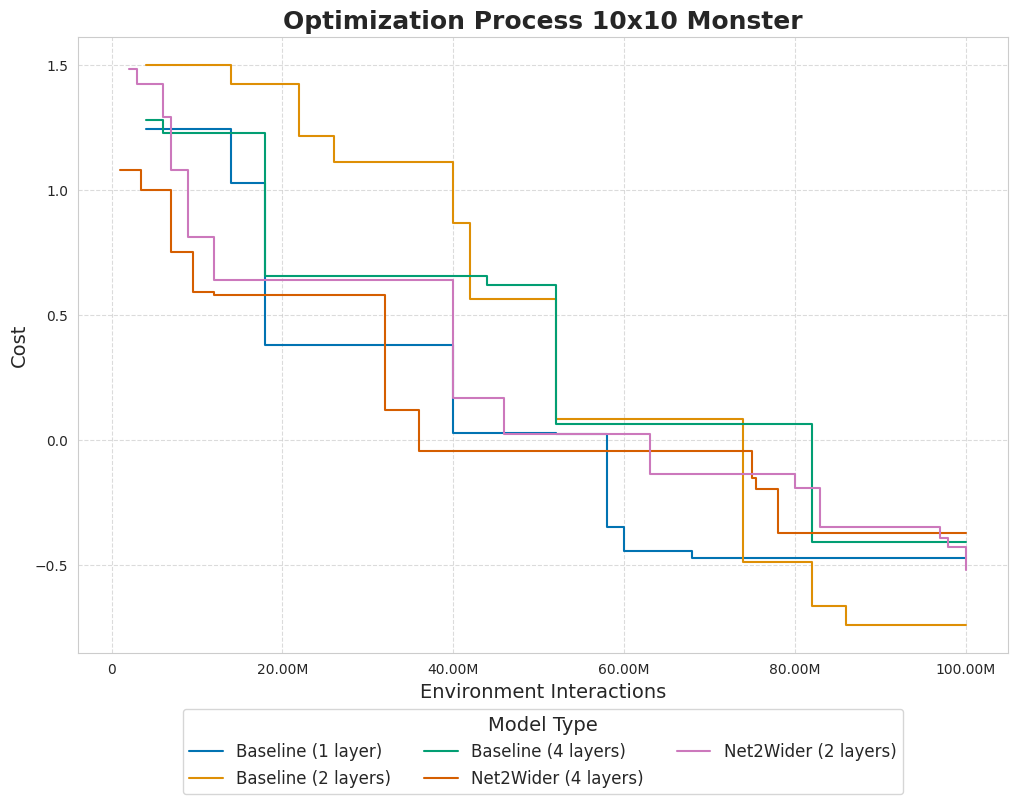
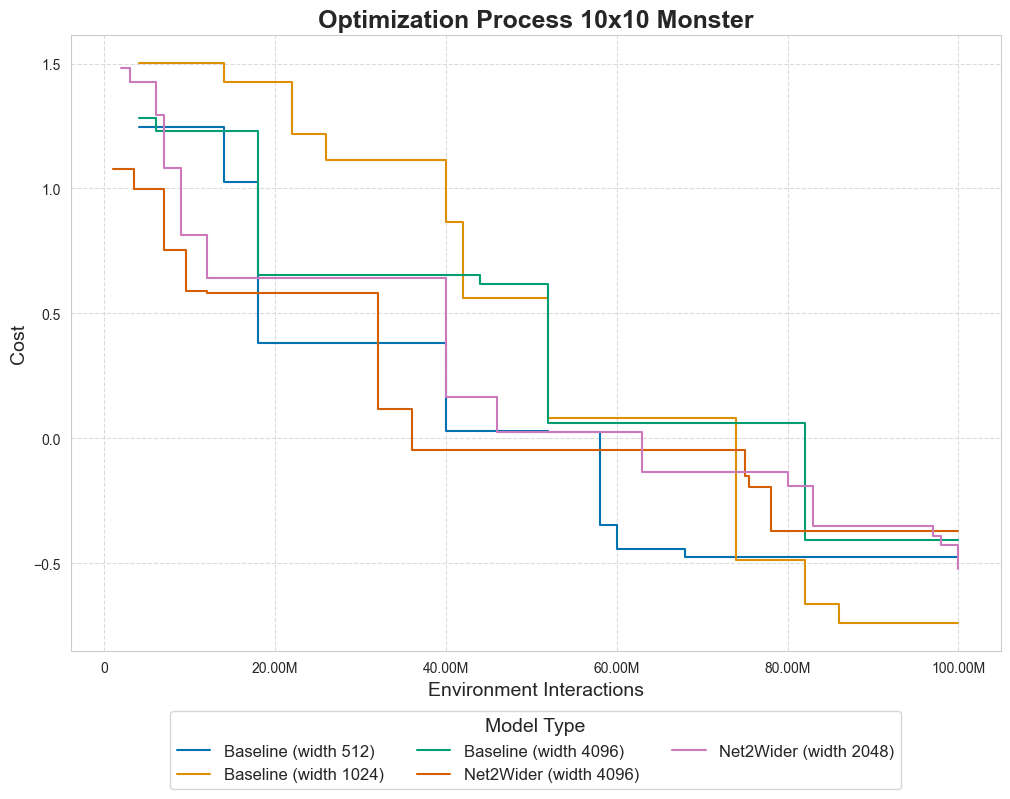
Update Net2WiderNet plots

diff --git a/plotting/minihack/net2wider/overall_training_process/plot_training_process.py b/plotting/minihack/net2wider/overall_training_process/plot_training_process.py
@@ -84,11 +84,11 @@ def plot_10x10_random():
         "fehring_growing_nn_new_seeded", [1, 2, 7, 8, 9]
     )
     training_process_style()
-    sns.lineplot(data=baseline_width_1_callback_data, x="environment_interactions", y="cost", label="Baseline (1 layer)", drawstyle="steps-post")
-    sns.lineplot(data=baseline_width_2_callback_data, x="environment_interactions", y="cost", label="Baseline (2 layers)", drawstyle="steps-post")
-    sns.lineplot(data=baseline_width_4_callback_data, x="environment_interactions", y="cost", label="Baseline (4 layers)", drawstyle="steps-post")
-    sns.lineplot(data=net2wider_smac_callback_data_width_4, x="environment_interactions", y="cost", label="Net2Wider (4 layers)", drawstyle="steps-post")
-    sns.lineplot(data=net2wider_smac_callback_data_width_2, x="environment_interactions", y="cost", label="Net2Wider (2 layers)", drawstyle="steps-post")
+    sns.lineplot(data=baseline_width_1_callback_data, x="environment_interactions", y="cost", label="Baseline (width 512)", drawstyle="steps-post")
+    sns.lineplot(data=baseline_width_2_callback_data, x="environment_interactions", y="cost", label="Baseline (width 1024)", drawstyle="steps-post")
+    sns.lineplot(data=baseline_width_4_callback_data, x="environment_interactions", y="cost", label="Baseline (width 4096)", drawstyle="steps-post")
+    sns.lineplot(data=net2wider_smac_callback_data_width_4, x="environment_interactions", y="cost", label="Net2Wider (width 4096)", drawstyle="steps-post")
+    sns.lineplot(data=net2wider_smac_callback_data_width_2, x="environment_interactions", y="cost", label="Net2Wider (width 2048)", drawstyle="steps-post")
 
     plt.title("Optimization Process 10x10 Random", fontsize=18, fontweight="bold")
     plt.xlabel("Environment Interactions", fontsize=14)
@@ -106,11 +106,11 @@ def plot_10x10_monster():
     )
 
     training_process_style()
-    sns.lineplot(data=baseline_width_1_callback_data, x="environment_interactions", y="cost", label="Baseline (1 layer)", drawstyle="steps-post")
-    sns.lineplot(data=baseline_width_2_callback_data, x="environment_interactions", y="cost", label="Baseline (2 layers)", drawstyle="steps-post")
-    sns.lineplot(data=baseline_width_4_callback_data, x="environment_interactions", y="cost", label="Baseline (4 layers)", drawstyle="steps-post")
-    sns.lineplot(data=net2wider_smac_callback_data_width_4, x="environment_interactions", y="cost", label="Net2Wider (4 layers)", drawstyle="steps-post")
-    sns.lineplot(data=net2wider_smac_callback_data_width_2, x="environment_interactions", y="cost", label="Net2Wider (2 layers)", drawstyle="steps-post")
+    sns.lineplot(data=baseline_width_1_callback_data, x="environment_interactions", y="cost", label="Baseline (width 512)", drawstyle="steps-post")
+    sns.lineplot(data=baseline_width_2_callback_data, x="environment_interactions", y="cost", label="Baseline (width 1024)", drawstyle="steps-post")
+    sns.lineplot(data=baseline_width_4_callback_data, x="environment_interactions", y="cost", label="Baseline (width 4096)", drawstyle="steps-post")
+    sns.lineplot(data=net2wider_smac_callback_data_width_4, x="environment_interactions", y="cost", label="Net2Wider (width 4096)", drawstyle="steps-post")
+    sns.lineplot(data=net2wider_smac_callback_data_width_2, x="environment_interactions", y="cost", label="Net2Wider (width 2048)", drawstyle="steps-post")
 
     plt.title("Optimization Process 10x10 Monster", fontsize=18, fontweight="bold")
     plt.xlabel("Environment Interactions", fontsize=14)
